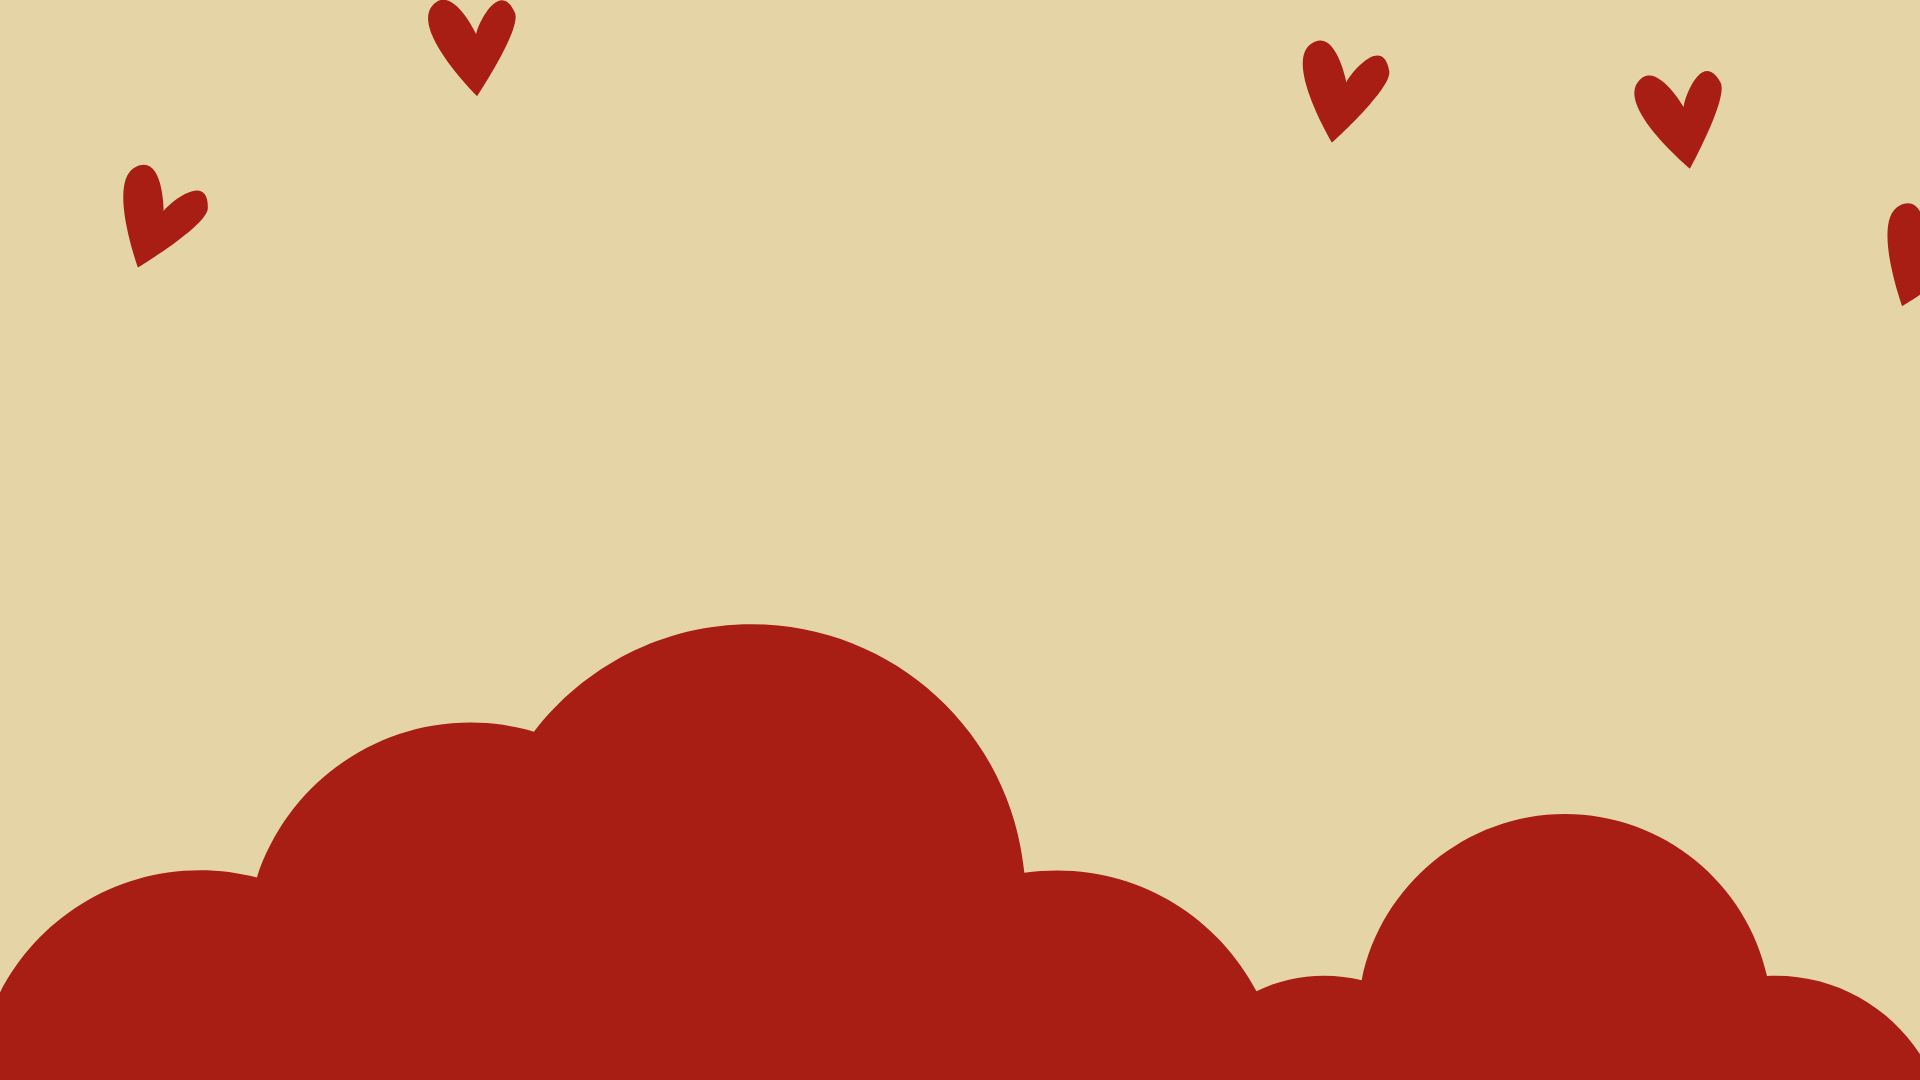
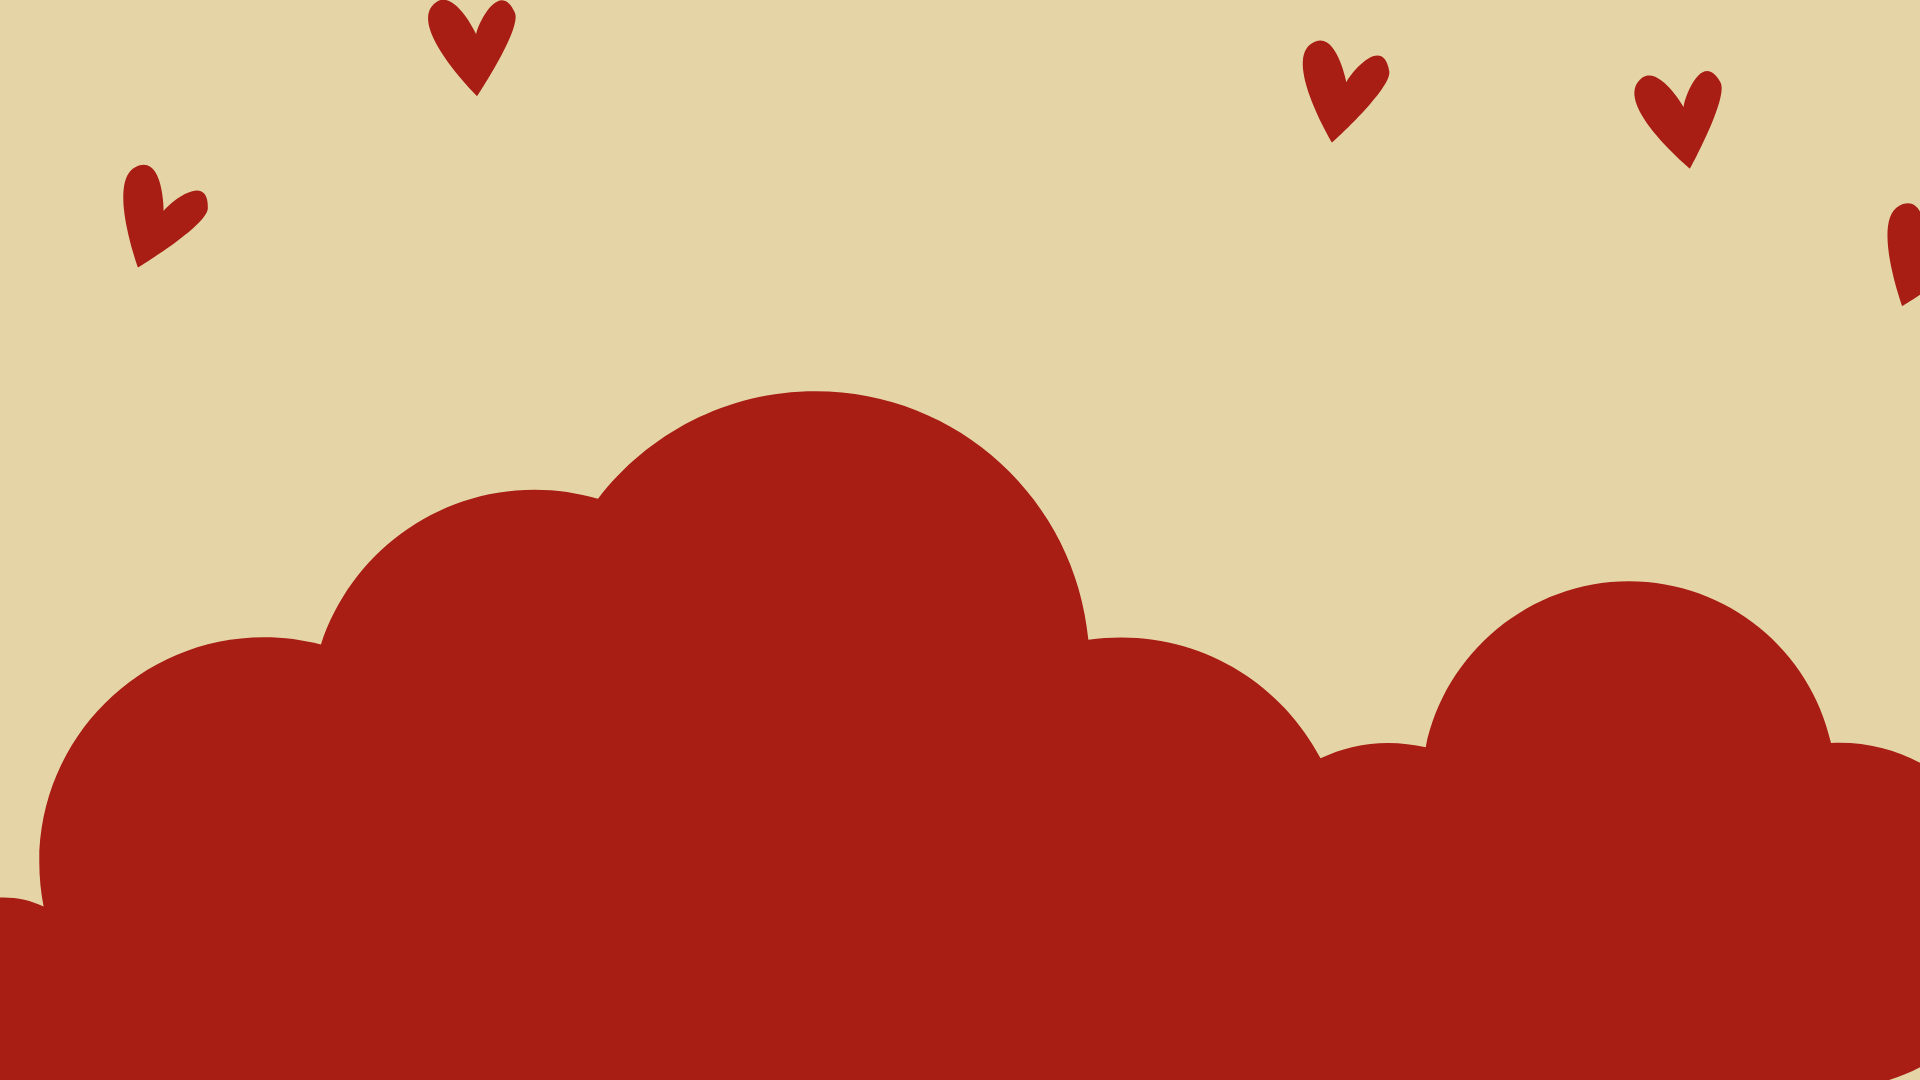
update

Changed region(s): [[0.0, 0.3361, 1.0, 1.0]]

diff --git a/src/components/SavingHabitPage/index.scss b/src/components/SavingHabitPage/index.scss
@@ -12,7 +12,7 @@
     opacity: 0;
     transform: translateY(20px);
     animation: fadeIn 1s forwards;
-    background-image: url('../../assets/images/resultBackground6.png');
+    background-image: url('../../assets/images/resultBackground7.png');
     background-size: cover; 
     background-position: center; 
     background-repeat: no-repeat; 
@@ -116,6 +116,10 @@
     .saving-result-category {
       padding: 20px;
       max-height: 90vh;
+      background-image: url('../../assets/images/resultBackground6.png');
+      background-size: cover; 
+      background-position: center; 
+      background-repeat: no-repeat; 
     }
   
     .saving-title {
